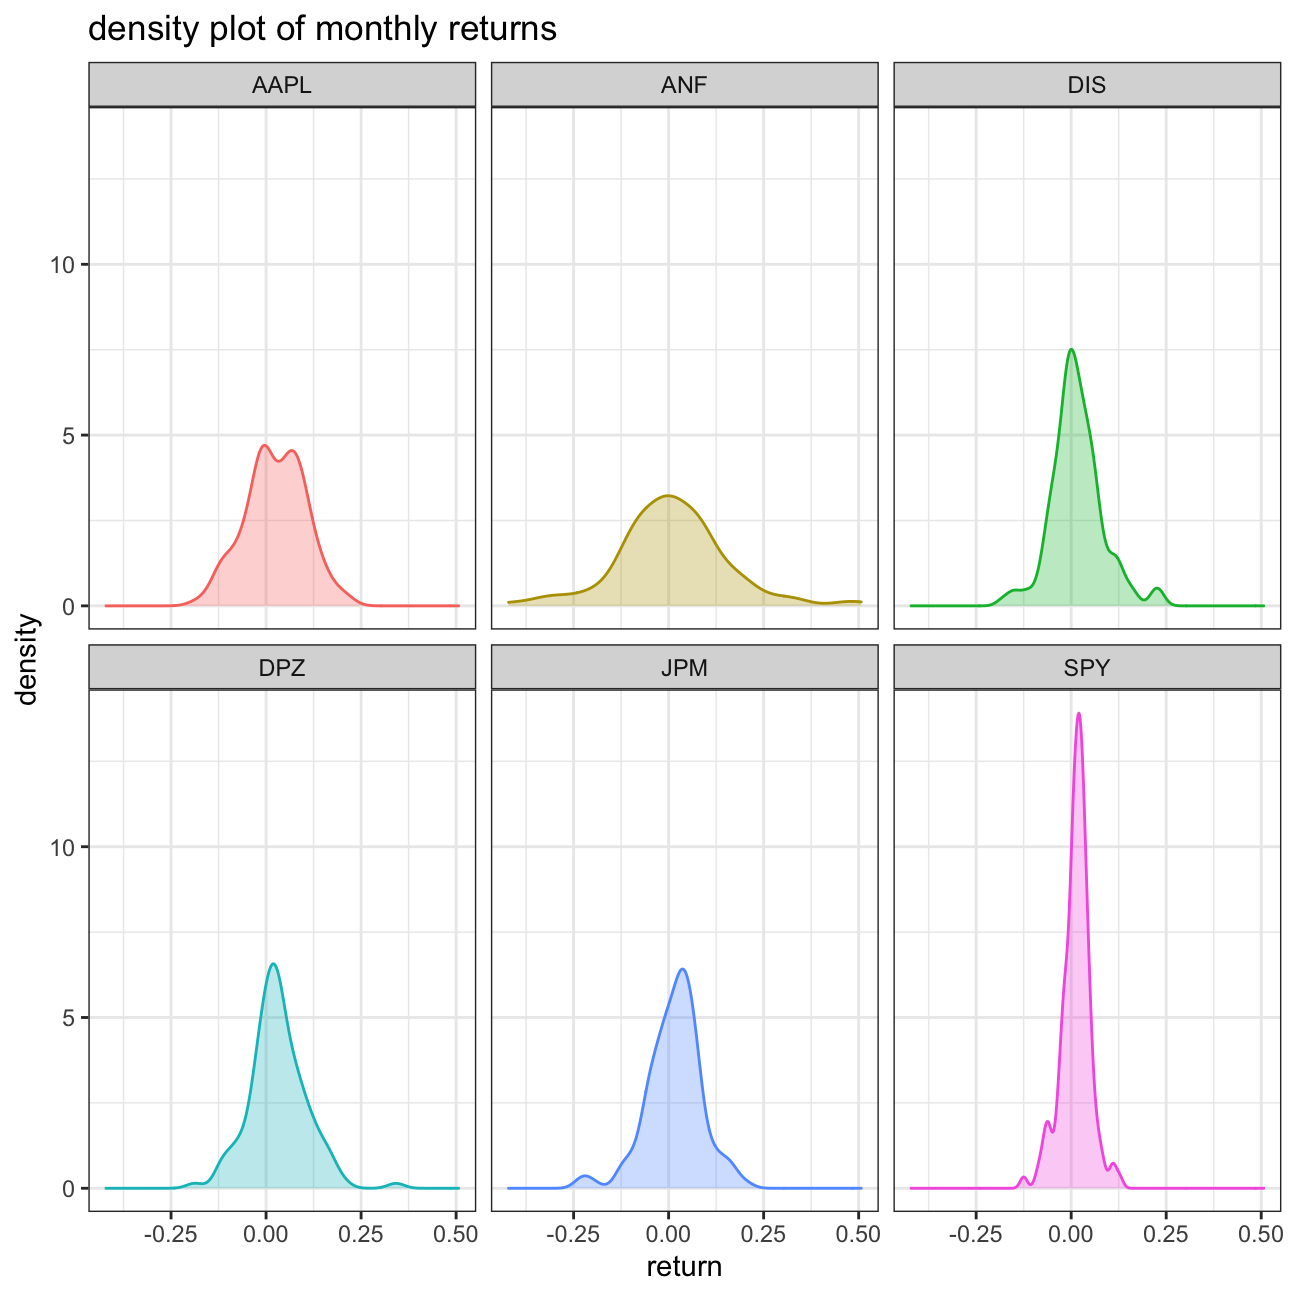
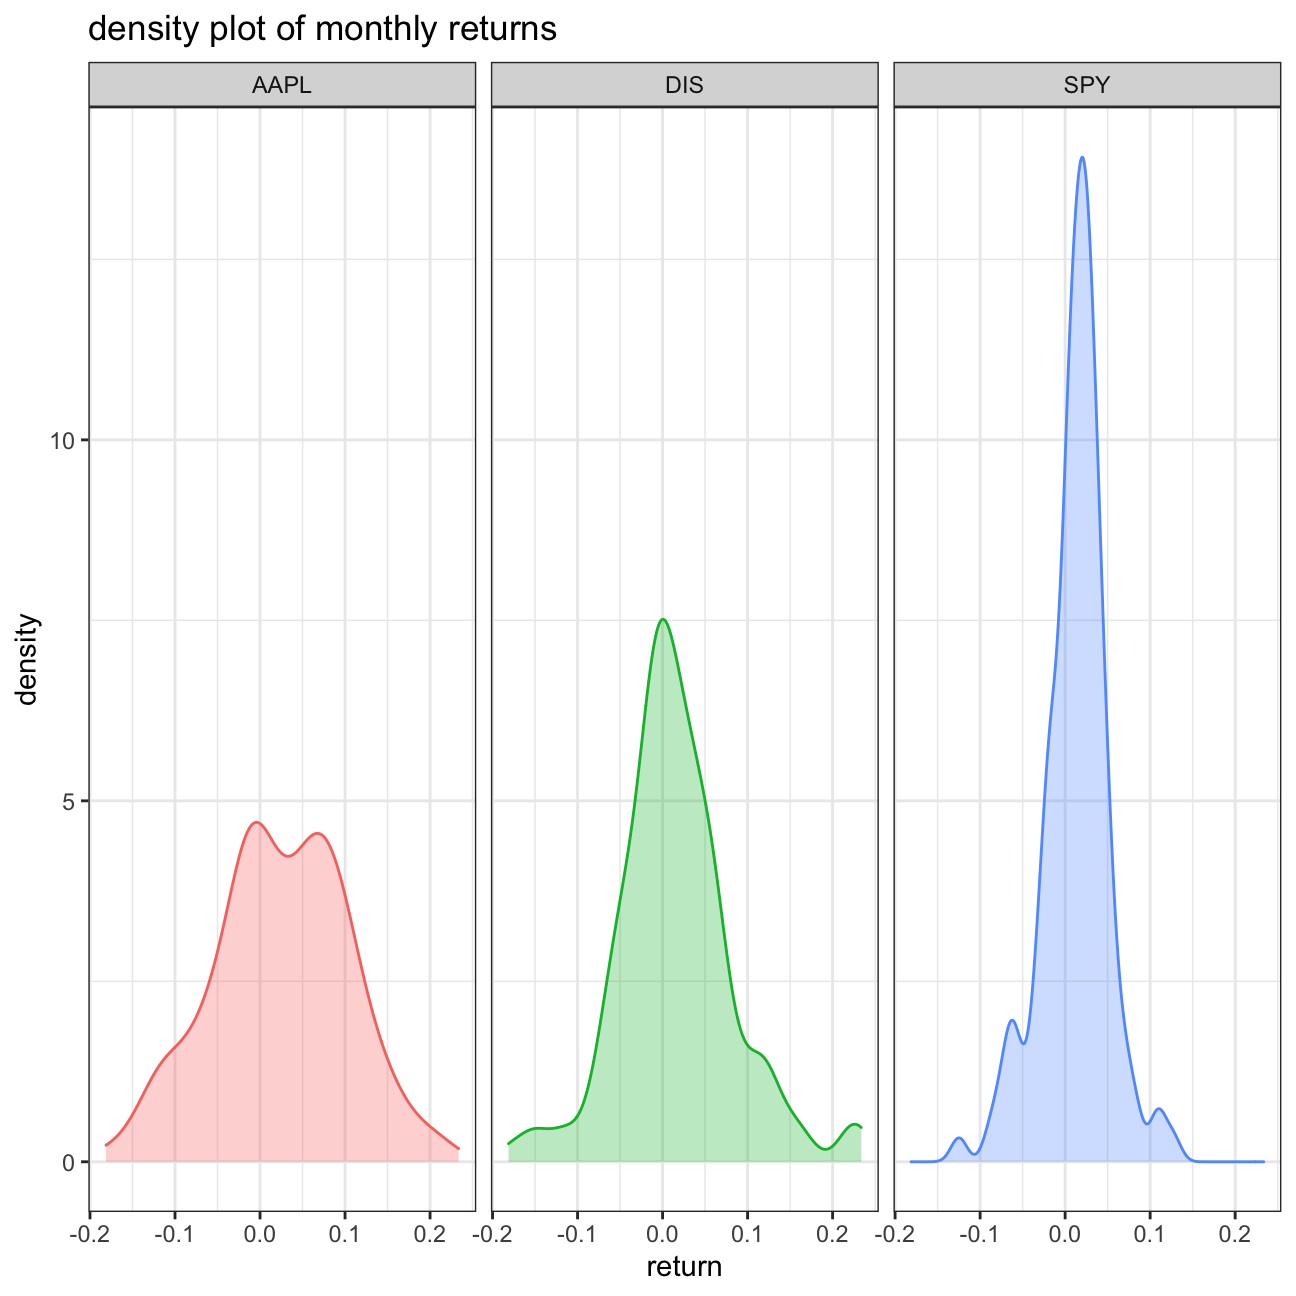
Added projects page containing all projects

diff --git a/public/project/index.html b/public/project/index.html
@@ -1,9 +1,134 @@
----
-slug: project
-title: project
----
+<!DOCTYPE html>
+<html lang="en">
 
-<script src="{{< blogdown/postref >}}index_files/header-attrs/header-attrs.js"></script>
+  <head>
+    <meta charset="utf-8">
+    <meta name="viewport" content="width=device-width, initial-scale=1.0">
+    <meta http-equiv="Content-Language" content="en">
+    <meta name="color-scheme" content="light dark">
+
+    
+
+    <meta name="author" content="lazar jelic">
+    <meta name="description" content="our goal with this project is to analyse a risk-return relationship of stocks of our choice in order to see which ones should we buy given a specific level of risk aversion. to achieve this goal, we will need to calculate some measurements using descriptive statistics and to plot a few charts.
+firstly, we load a dataset nyse.csv containing 508 stocks listed on the new york stock exchange, their unique ticker symbol and name, the ipo_year (initial public offering), as well as the sector and industry the company is in.">
+    <meta name="keywords" content="">
+
+    <meta name="twitter:card" content="summary"/>
+<meta name="twitter:title" content="project"/>
+<meta name="twitter:description" content="our goal with this project is to analyse a risk-return relationship of stocks of our choice in order to see which ones should we buy given a specific level of risk aversion. to achieve this goal, we will need to calculate some measurements using descriptive statistics and to plot a few charts.
+firstly, we load a dataset nyse.csv containing 508 stocks listed on the new york stock exchange, their unique ticker symbol and name, the ipo_year (initial public offering), as well as the sector and industry the company is in."/>
+
+    <meta property="og:title" content="project" />
+<meta property="og:description" content="our goal with this project is to analyse a risk-return relationship of stocks of our choice in order to see which ones should we buy given a specific level of risk aversion. to achieve this goal, we will need to calculate some measurements using descriptive statistics and to plot a few charts.
+firstly, we load a dataset nyse.csv containing 508 stocks listed on the new york stock exchange, their unique ticker symbol and name, the ipo_year (initial public offering), as well as the sector and industry the company is in." />
+<meta property="og:type" content="article" />
+<meta property="og:url" content="https://lazar-jelic-am01.netlify.app/project/" /><meta property="article:section" content="" />
+
+
+
+
+
+    <title>
+  project · home
+</title>
+
+    
+      <link rel="canonical" href="https://lazar-jelic-am01.netlify.app/project/">
+    
+
+    <link rel="preload" href="/fonts/forkawesome-webfont.woff2?v=1.2.0" as="font" type="font/woff2" crossorigin>
+
+    
+      
+      
+      <link rel="stylesheet" href="/css/coder.min.310799448a0028e2e5c259b4dcdd93d6bef8c02b0bebea2dd227d8dd99b4b6f3.css" integrity="sha256-MQeZRIoAKOLlwlm03N2T1r74wCsL6&#43;ot0ifY3Zm0tvM=" crossorigin="anonymous" media="screen" />
+    
+
+    
+
+    
+      
+        
+        
+        <link rel="stylesheet" href="/css/coder-dark.min.d71add28377e5a9b959bf6cb1c481115b0b26590ae228a2940acde5850ed1554.css" integrity="sha256-1xrdKDd&#43;WpuVm/bLHEgRFbCyZZCuIoopQKzeWFDtFVQ=" crossorigin="anonymous" media="screen" />
+      
+    
+
+    
+
+    
+
+    <link rel="icon" type="image/png" href="/images/favicon-32x32.png" sizes="32x32">
+    <link rel="icon" type="image/png" href="/images/favicon-16x16.png" sizes="16x16">
+
+    <link rel="apple-touch-icon" href="/images/apple-touch-icon.png">
+    <link rel="apple-touch-icon" sizes="180x180" href="/images/apple-touch-icon.png">
+
+    
+
+    <meta name="generator" content="Hugo 0.87.0" />
+  </head>
+
+  
+  
+    
+  
+  <body class="preload-transitions colorscheme-auto"
+        onload=""
+  >
+    
+<div class="float-container">
+    <a id="dark-mode-toggle" class="colorscheme-toggle">
+        <i class="fa fa-adjust fa-fw" aria-hidden="true"></i>
+    </a>
+</div>
+
+
+    <main class="wrapper">
+      <nav class="navigation">
+  <section class="container">
+    <a class="navigation-title" href="/">
+      home
+    </a>
+    
+      <input type="checkbox" id="menu-toggle" />
+      <label class="menu-button float-right" for="menu-toggle">
+        <i class="fa fa-bars fa-fw" aria-hidden="true"></i>
+      </label>
+      <ul class="navigation-list">
+        
+          
+            <li class="navigation-item">
+              <a class="navigation-link" href="/contact">contact</a>
+            </li>
+          
+            <li class="navigation-item">
+              <a class="navigation-link" href="/project">project</a>
+            </li>
+          
+        
+        
+      </ul>
+    
+  </section>
+</nav>
+
+
+      <div class="content">
+        
+  <section class="container page">
+  <article>
+    <header>
+      <h1 class="title">
+        <a class="title-link" href="https://lazar-jelic-am01.netlify.app/project/">
+          project
+        </a>
+      </h1>
+    </header>
+
+    
+<script src="https://lazar-jelic-am01.netlify.app/project/index_files/header-attrs/header-attrs.js"></script>
 
 
 <p>our goal with this project is to analyse a risk-return relationship of stocks of our choice in order to see which ones should we buy given a specific level of risk aversion. to achieve this goal, we will need to calculate some measurements using descriptive statistics and to plot a few charts.</p>
@@ -27,7 +152,7 @@ glimpse(nyse)</code></pre>
   theme_bw() +
   labs(title=&#39;number of stocks across sectors&#39;, x=&#39;number of stocks&#39;, y=&#39;sector&#39;) +
   NULL</code></pre>
-<p><img src="{{< blogdown/postref >}}index_files/figure-html/companies-per-sector-1.png" width="648" style="display: block; margin: auto;" /></p>
+<p><img src="https://lazar-jelic-am01.netlify.app/project/index_files/figure-html/companies-per-sector-1.png" width="648" style="display: block; margin: auto;" /></p>
 <p>interestingly enough, the new york stock exchange does not prefer technology stocks. from 1971, nasdaq is the place for hot tech stocks that due to cost savings.</p>
 <p>now, let’s choose some stocks and download some their historical prices using the <code>tidyquant</code> package. recall that the column <code>symbol</code> can be used to uniquely represent a single stock or index. we are interested in a period from 1st January 2011 to 31st August 2021.</p>
 <pre class="r"><code>stocks &lt;- c(&#39;AAPL&#39;, &#39;JPM&#39;, &#39;DIS&#39;, &#39;DPZ&#39;, &#39;ANF&#39;, &#39;SPY&#39;) %&gt;%
@@ -80,7 +205,7 @@ glimpse(stocks)</code></pre>
   theme(legend.position=&#39;none&#39;) +
   labs(title=&#39;density plot of monthly returns&#39;, x=&#39;return&#39;, y=&#39;density&#39;) +
   NULL</code></pre>
-<p><img src="{{< blogdown/postref >}}index_files/figure-html/density-monthly-returns-1.png" width="648" style="display: block; margin: auto;" /></p>
+<p><img src="https://lazar-jelic-am01.netlify.app/project/index_files/figure-html/density-monthly-returns-1.png" width="648" style="display: block; margin: auto;" /></p>
 <p>plotting the monthly returns for the stocks of various companies over time helps us determine the level of risk involved in such investments. according to the density plot, the riskiest stock is <code>anf</code>, which confirms our conclusion from above, and the least risk is involved in <code>spy</code>, which makes sense because it is comprised of multiple stocks with a goal of divesification.</p>
 <p>finally, make a plot that shows the expected monthly return (<code>mean</code>) of a stock on the y axis and the risk (<code>sd</code>) in the x-axis.</p>
 <pre class="r"><code>stocks_returns_monthly %&gt;%
@@ -94,7 +219,63 @@ glimpse(stocks)</code></pre>
   geom_text_repel() +
   labs(title=&#39;risk and return plot for selected stocks&#39;, x=&#39;risk&#39;, y=&#39;return&#39;) +
   NULL</code></pre>
-<p><img src="{{< blogdown/postref >}}index_files/figure-html/plot-risk-return-1.png" width="648" style="display: block; margin: auto;" /></p>
+<p><img src="https://lazar-jelic-am01.netlify.app/project/index_files/figure-html/plot-risk-return-1.png" width="648" style="display: block; margin: auto;" /></p>
 <p>this plot depicts the risk-return relationship of each stock. while <code>dpz</code> provides the highest return for a moderate risk level, <code>anz</code> despite being the riskiest provides the least amount of return. the definitive answer to the question of the most profitable stock given a certain risk aversion can be found by utilising some advanced methods.</p>
 <p>for in-depth explanation of the code written above, take a look at <a href="https://mam2022.netlify.app/reference/finance_data">these finance data sources</a>.</p>
 <p><strong>important note: parts of this page including text and code are taken from kostis christodoulou and the 10th study group at london business school</strong></p>
+
+  </article>
+</section>
+
+  
+
+      </div>
+
+      
+  <footer class="footer">
+    <section class="container">
+      
+        <p>made with <3</p>
+      
+      
+        ©
+        
+        2021
+         lazar jelic 
+      
+      
+         · 
+        powered by <a href="https://gohugo.io/">hugo</a> & <a href="https://github.com/luizdepra/hugo-coder/">coder</a>.
+      
+      
+        
+      
+    </section>
+  </footer>
+
+
+    </main>
+
+    
+      
+      <script src="/js/coder.min.03b17769f4f91ae35667e1f2a1ca8c16f50562576cf90ff32b3179926914daa5.js" integrity="sha256-A7F3afT5GuNWZ&#43;HyocqMFvUFYlds&#43;Q/zKzF5kmkU2qU="></script>
+    
+
+    
+
+    
+
+    
+
+    
+
+    
+
+    
+
+    
+
+    
+  </body>
+
+</html>

diff --git a/content/stocks/index.html b/content/stocks/index.html
@@ -1,0 +1,103 @@
+---
+slug: stocks
+title: risk-return analysis of the nyse stocks
+---
+
+<script src="{{< blogdown/postref >}}index_files/header-attrs/header-attrs.js"></script>
+
+
+<p>our goal with this project is to analyse a risk-return relationship of stocks of our choice in order to see which ones should we buy given a specific level of risk aversion. to achieve this goal, we will need to calculate some measurements using descriptive statistics and to plot a few charts.</p>
+<p>firstly, we load a dataset <code>nyse.csv</code> containing 508 stocks listed on the new york stock exchange, their unique ticker <code>symbol</code> and <code>name</code>, the <code>ipo_year</code> (initial public offering), as well as the <code>sector</code> and <code>industry</code> the company is in.</p>
+<pre class="r"><code>nyse &lt;- read_csv(here(&#39;static/data&#39;, &#39;nyse.csv&#39;))
+glimpse(nyse)</code></pre>
+<pre><code>## Rows: 508
+## Columns: 6
+## $ symbol        &lt;chr&gt; &quot;MMM&quot;, &quot;ABB&quot;, &quot;ABT&quot;, &quot;ABBV&quot;, &quot;ACN&quot;, &quot;AAP&quot;, &quot;AFL&quot;, &quot;A&quot;, &quot;…
+## $ name          &lt;chr&gt; &quot;3M Company&quot;, &quot;ABB Ltd&quot;, &quot;Abbott Laboratories&quot;, &quot;AbbVie …
+## $ ipo_year      &lt;chr&gt; &quot;n/a&quot;, &quot;n/a&quot;, &quot;n/a&quot;, &quot;2012&quot;, &quot;2001&quot;, &quot;n/a&quot;, &quot;n/a&quot;, &quot;1999…
+## $ sector        &lt;chr&gt; &quot;Health Care&quot;, &quot;Consumer Durables&quot;, &quot;Health Care&quot;, &quot;Heal…
+## $ industry      &lt;chr&gt; &quot;Medical/Dental Instruments&quot;, &quot;Electrical Products&quot;, &quot;Ma…
+## $ summary_quote &lt;chr&gt; &quot;https://www.nasdaq.com/symbol/mmm&quot;, &quot;https://www.nasdaq…</code></pre>
+<p>based on this dataset, we create a bar plot that shows the number of companies per sector in descending order. this will give us an idea of which kind of stocks listed on the new york stock exchange we downloaded previously.</p>
+<pre class="r"><code>nyse %&gt;%
+  group_by(sector) %&gt;%
+  count(sort=T) %&gt;%
+  ggplot(aes(x=n, y=fct_reorder(sector, n))) +
+  geom_col() +
+  theme_bw() +
+  labs(title=&#39;number of stocks across sectors&#39;, x=&#39;number of stocks&#39;, y=&#39;sector&#39;) +
+  NULL</code></pre>
+<p><img src="{{< blogdown/postref >}}index_files/figure-html/companies-per-sector-1.png" width="648" style="display: block; margin: auto;" /></p>
+<p>interestingly enough, the new york stock exchange does not prefer technology stocks. from 1971, nasdaq is the place for hot tech stocks that due to cost savings.</p>
+<p>now, let’s choose some stocks and download some their historical prices using the <code>tidyquant</code> package. recall that the column <code>symbol</code> can be used to uniquely represent a single stock or index. we are interested in a period from 1st January 2011 to 31st August 2021.</p>
+<pre class="r"><code>stocks &lt;- c(&#39;AAPL&#39;, &#39;JPM&#39;, &#39;DIS&#39;, &#39;DPZ&#39;, &#39;ANF&#39;, &#39;SPY&#39;) %&gt;%
+  tq_get(get=&#39;stock.prices&#39;,
+         from=&#39;2011-01-01&#39;,
+         to=&#39;2021-08-31&#39;) %&gt;%
+  group_by(symbol)
+
+glimpse(stocks)</code></pre>
+<pre><code>## Rows: 16,098
+## Columns: 8
+## Groups: symbol [6]
+## $ symbol   &lt;chr&gt; &quot;AAPL&quot;, &quot;AAPL&quot;, &quot;AAPL&quot;, &quot;AAPL&quot;, &quot;AAPL&quot;, &quot;AAPL&quot;, &quot;AAPL&quot;, &quot;AAPL…
+## $ date     &lt;date&gt; 2011-01-03, 2011-01-04, 2011-01-05, 2011-01-06, 2011-01-07, …
+## $ open     &lt;dbl&gt; 11.6, 11.9, 11.8, 12.0, 11.9, 12.1, 12.3, 12.3, 12.3, 12.4, 1…
+## $ high     &lt;dbl&gt; 11.8, 11.9, 11.9, 12.0, 12.0, 12.3, 12.3, 12.3, 12.4, 12.4, 1…
+## $ low      &lt;dbl&gt; 11.6, 11.7, 11.8, 11.9, 11.9, 12.0, 12.1, 12.2, 12.3, 12.3, 1…
+## $ close    &lt;dbl&gt; 11.8, 11.8, 11.9, 11.9, 12.0, 12.2, 12.2, 12.3, 12.3, 12.4, 1…
+## $ volume   &lt;dbl&gt; 4.45e+08, 3.09e+08, 2.56e+08, 3.00e+08, 3.12e+08, 4.49e+08, 4…
+## $ adjusted &lt;dbl&gt; 10.1, 10.2, 10.2, 10.2, 10.3, 10.5, 10.5, 10.6, 10.6, 10.7, 1…</code></pre>
+<p>financial performance analysis depend on returns; if we buy a stock today for 100 and we sell it tomorrow for 101.75, our one-day return, assuming no transaction costs, is 1.75%. so given the adjusted closing prices, the first step is to calculate monthly returns for our stocks.</p>
+<pre class="r"><code>stocks_returns_monthly &lt;- stocks %&gt;%
+  tq_transmute(select=adjusted,
+               mutate_fun=periodReturn,
+               period=&#39;monthly&#39;,
+               type=&#39;arithmetic&#39;,
+               col_rename=&#39;monthly_returns&#39;,
+               cols=c(nested.col))</code></pre>
+<p>now we create a table where we summarise monthly returns for each of the stocks and <code>spy</code> index. already, we can see that <code>anf</code> is the most volatile stock in our selection even though it generates 0.5 monthly return at one point in time. our conclusion is solely based on the value of standard deviation. the higher value implies more risk due to uncertainty present in pricing of the observed stock. furthermore, <code>dpz</code> gives its investors the highest mean monthly return.</p>
+<pre class="r"><code>stocks_returns_monthly %&gt;%
+  group_by(symbol) %&gt;%
+  summarise(
+    min=min(monthly_returns),
+    max=max(monthly_returns),
+    median=median(monthly_returns),
+    mean=mean(monthly_returns),
+    sd=sd(monthly_returns))</code></pre>
+<pre><code>## # A tibble: 6 × 6
+##   symbol    min   max  median    mean     sd
+##   &lt;chr&gt;   &lt;dbl&gt; &lt;dbl&gt;   &lt;dbl&gt;   &lt;dbl&gt;  &lt;dbl&gt;
+## 1 AAPL   -0.181 0.217 0.0257  0.0245  0.0785
+## 2 ANF    -0.421 0.507 0.00287 0.00922 0.145 
+## 3 DIS    -0.179 0.234 0.00946 0.0155  0.0682
+## 4 DPZ    -0.188 0.342 0.0253  0.0314  0.0746
+## 5 JPM    -0.229 0.202 0.0225  0.0152  0.0722
+## 6 SPY    -0.125 0.127 0.0174  0.0123  0.0381</code></pre>
+<p>next, for each of the stocks we make a density plot, using <code>geom_density()</code>, that will show us the underlying distribution of the observed stock prices.</p>
+<pre class="r"><code>stocks_returns_monthly %&gt;%
+  ggplot(aes(x=monthly_returns, colour=symbol, fill=symbol)) +
+  geom_density(alpha=0.3) +
+  facet_wrap(~symbol) +
+  theme_bw() +
+  theme(legend.position=&#39;none&#39;) +
+  labs(title=&#39;density plot of monthly returns&#39;, x=&#39;return&#39;, y=&#39;density&#39;) +
+  NULL</code></pre>
+<p><img src="{{< blogdown/postref >}}index_files/figure-html/density-monthly-returns-1.png" width="648" style="display: block; margin: auto;" /></p>
+<p>plotting the monthly returns for the stocks of various companies over time helps us determine the level of risk involved in such investments. according to the density plot, the riskiest stock is <code>anf</code>, which confirms our conclusion from above, and the least risk is involved in <code>spy</code>, which makes sense because it is comprised of multiple stocks with a goal of diversification.</p>
+<p>finally, make a plot that shows the expected monthly return (<code>mean</code>) of a stock on the y axis and the risk (<code>sd</code>) in the x-axis.</p>
+<pre class="r"><code>stocks_returns_monthly %&gt;%
+  group_by(symbol) %&gt;%
+  summarise(
+    sd=sd(monthly_returns),
+    mean=mean(monthly_returns)) %&gt;%
+  ggplot(aes(x=sd, y=mean, label=symbol)) +
+  geom_point() +
+  theme_bw() +
+  geom_text_repel() +
+  labs(title=&#39;risk and return plot for selected stocks&#39;, x=&#39;risk&#39;, y=&#39;return&#39;) +
+  NULL</code></pre>
+<p><img src="{{< blogdown/postref >}}index_files/figure-html/plot-risk-return-1.png" width="648" style="display: block; margin: auto;" /></p>
+<p>this plot depicts the risk-return relationship of each stock. while <code>dpz</code> provides the highest return for a moderate risk level, <code>anz</code> despite being the riskiest provides the least amount of return. the definitive answer to the question of the most profitable stock given a certain risk aversion can be found by utilising some advanced methods.</p>
+<p>for in-depth explanation of the code written above, take a look at <a href="https://mam2022.netlify.app/reference/finance_data">these finance data sources</a>.</p>
+<p><strong>important note: parts of this page including text and code are taken from kostis christodoulou and the 10th study group at london business school</strong></p>

diff --git a/content/projects/index.md b/content/projects/index.md
@@ -1,0 +1,12 @@
+---
+slug: projects
+title: projects
+---
+
+take a look at the projects that my study group and i have done so far in the applied statistics in r course at london business school
+
+* [risk-return analysis of the nyse stocks](../stocks)
+
+* stay tuned for more exciting projects!
+
+![Random GIF](https://i.giphy.com/media/o0vwzuFwCGAFO/giphy.gif)
